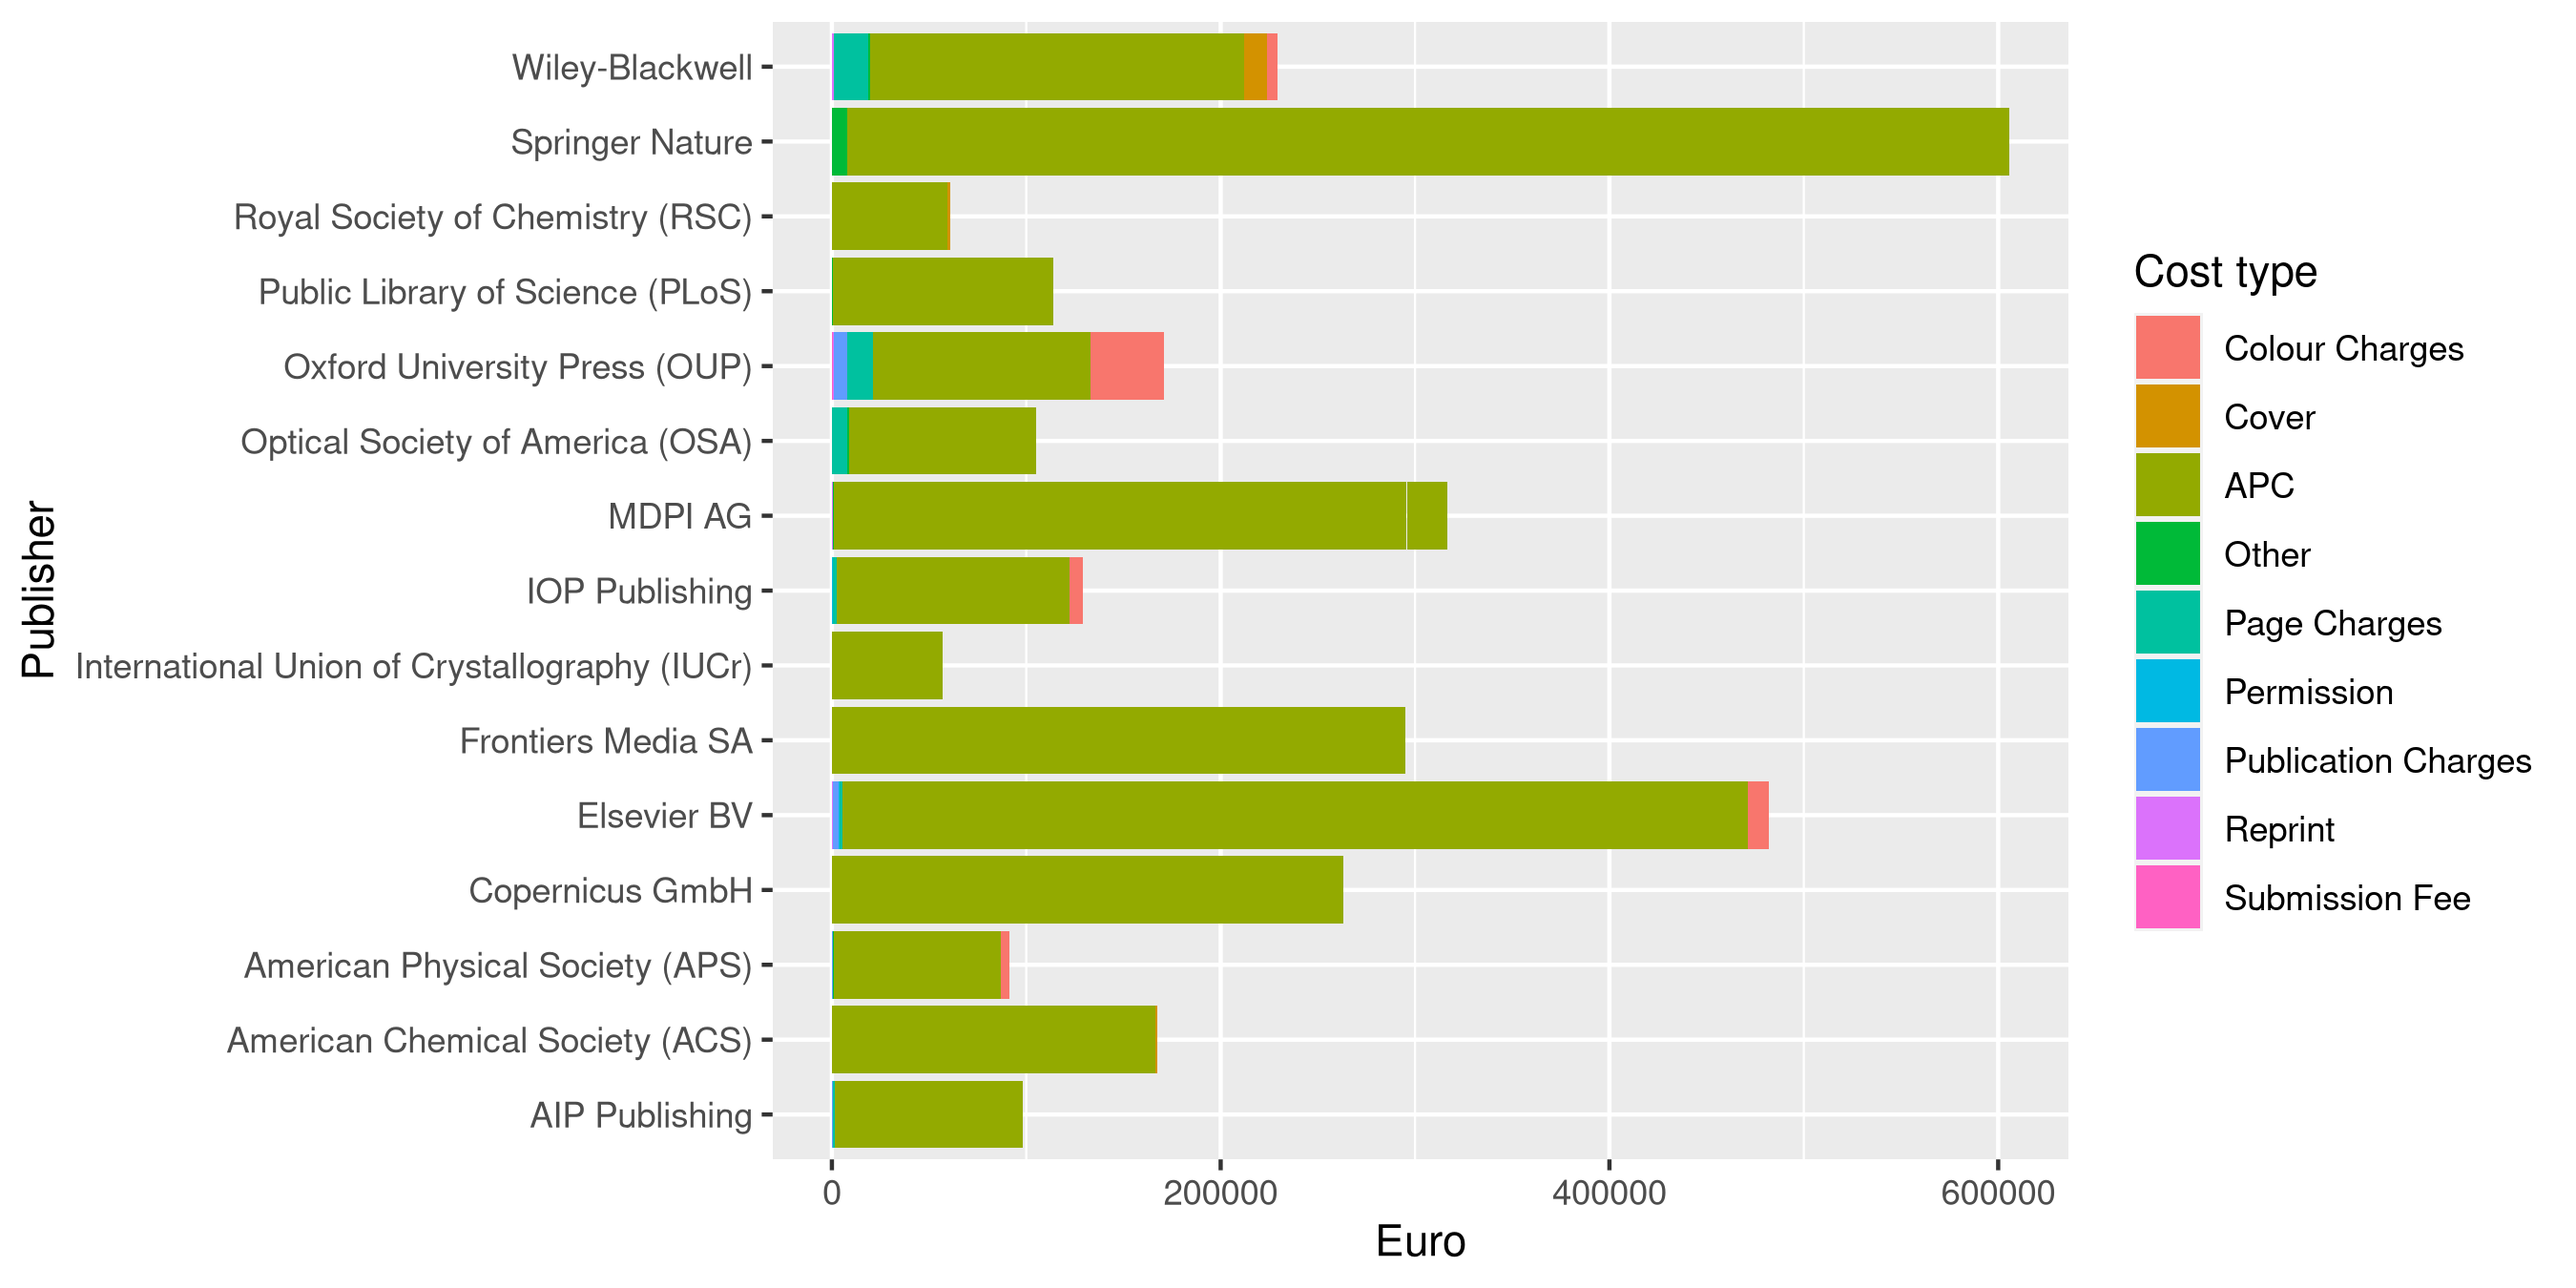
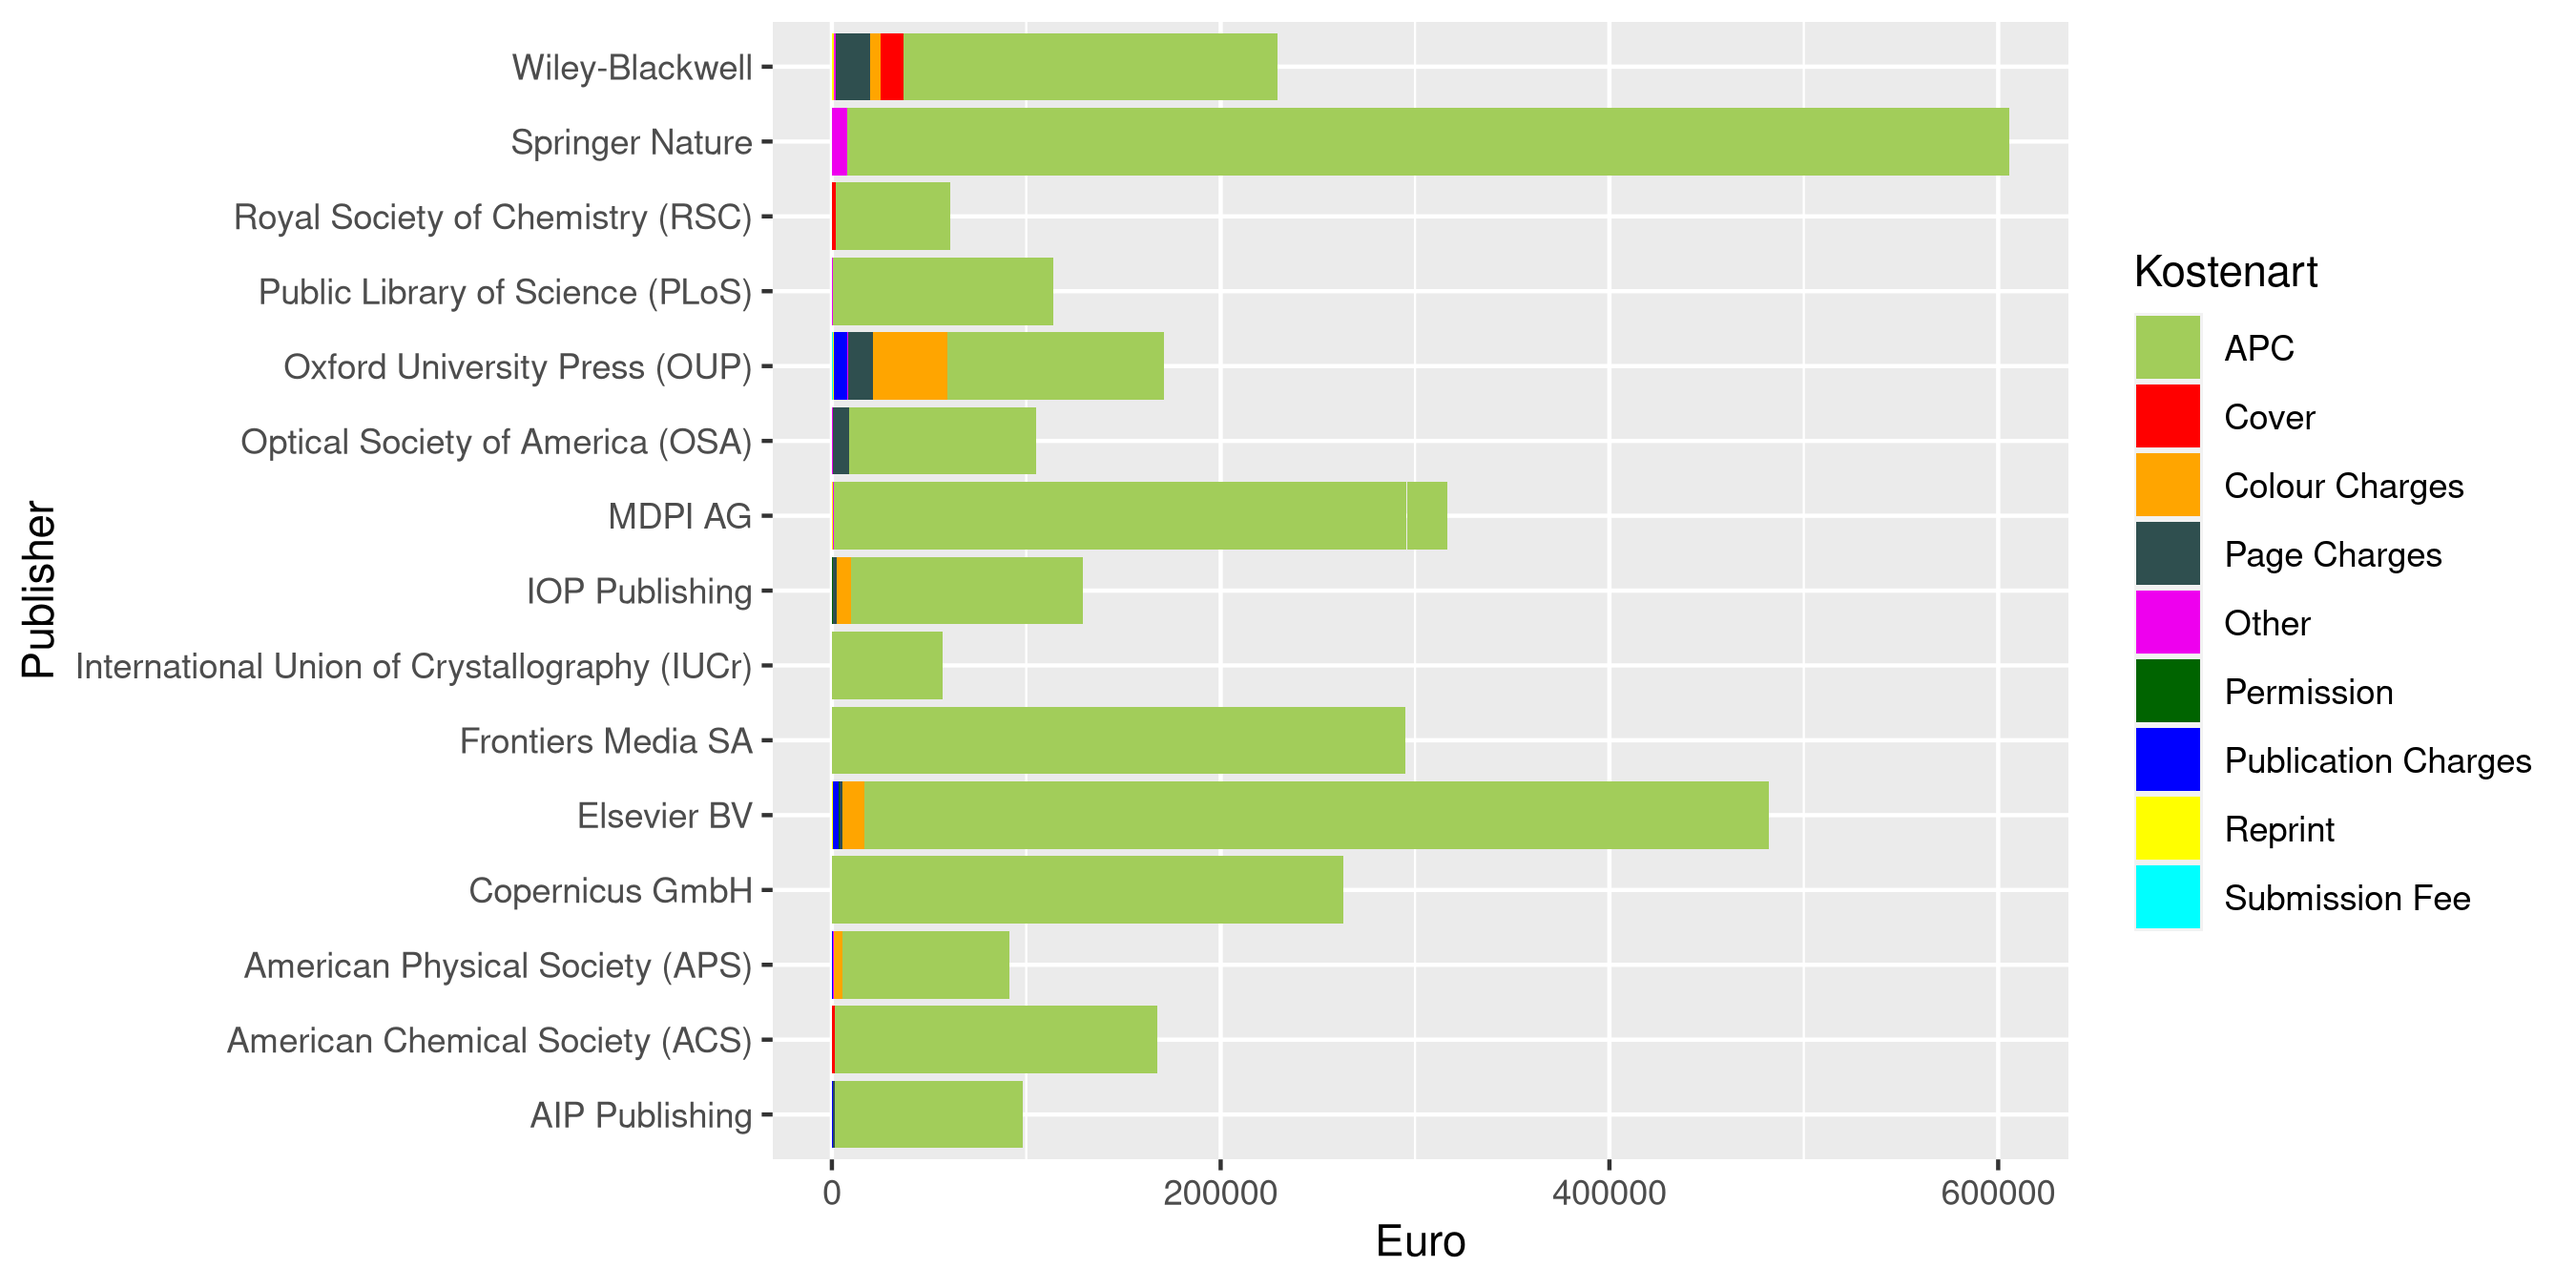
template updated, new plot added

Changed region(s): [[0.3111, 0.0, 0.7778, 0.9022], [0.8089, 0.1867, 0.9644, 0.7156]]

diff --git a/README.md b/README.md
@@ -41,7 +41,7 @@ This [page](https://github.com/OpenAPC/openapc-de/wiki/Data-Submission-Handout) 
 OpenAPC also aggregates data on additional costs linked to OA publishing:
 
 
-|Cost Type           | Total| Occurence| Median|
+|Kostenart           | Total| Vorkommen| Median|
 |:-------------------|-----:|---------:|------:|
 |cover               | 14887|        12|   1206|
 |colour_charges      | 70167|        37|   1960|
@@ -54,9 +54,13 @@ OpenAPC also aggregates data on additional costs linked to OA publishing:
 
 
 
-#### Example Data: FZ Jülich
+#### Example Data: Additional costs per publisher
 
 ![](figure/opencost_publishers.png)
+
+#### Example Data: Additional costs per hybrid status
+
+![](figure/opencost_hybrids.png)
 
 ## Participating German Universities
 
